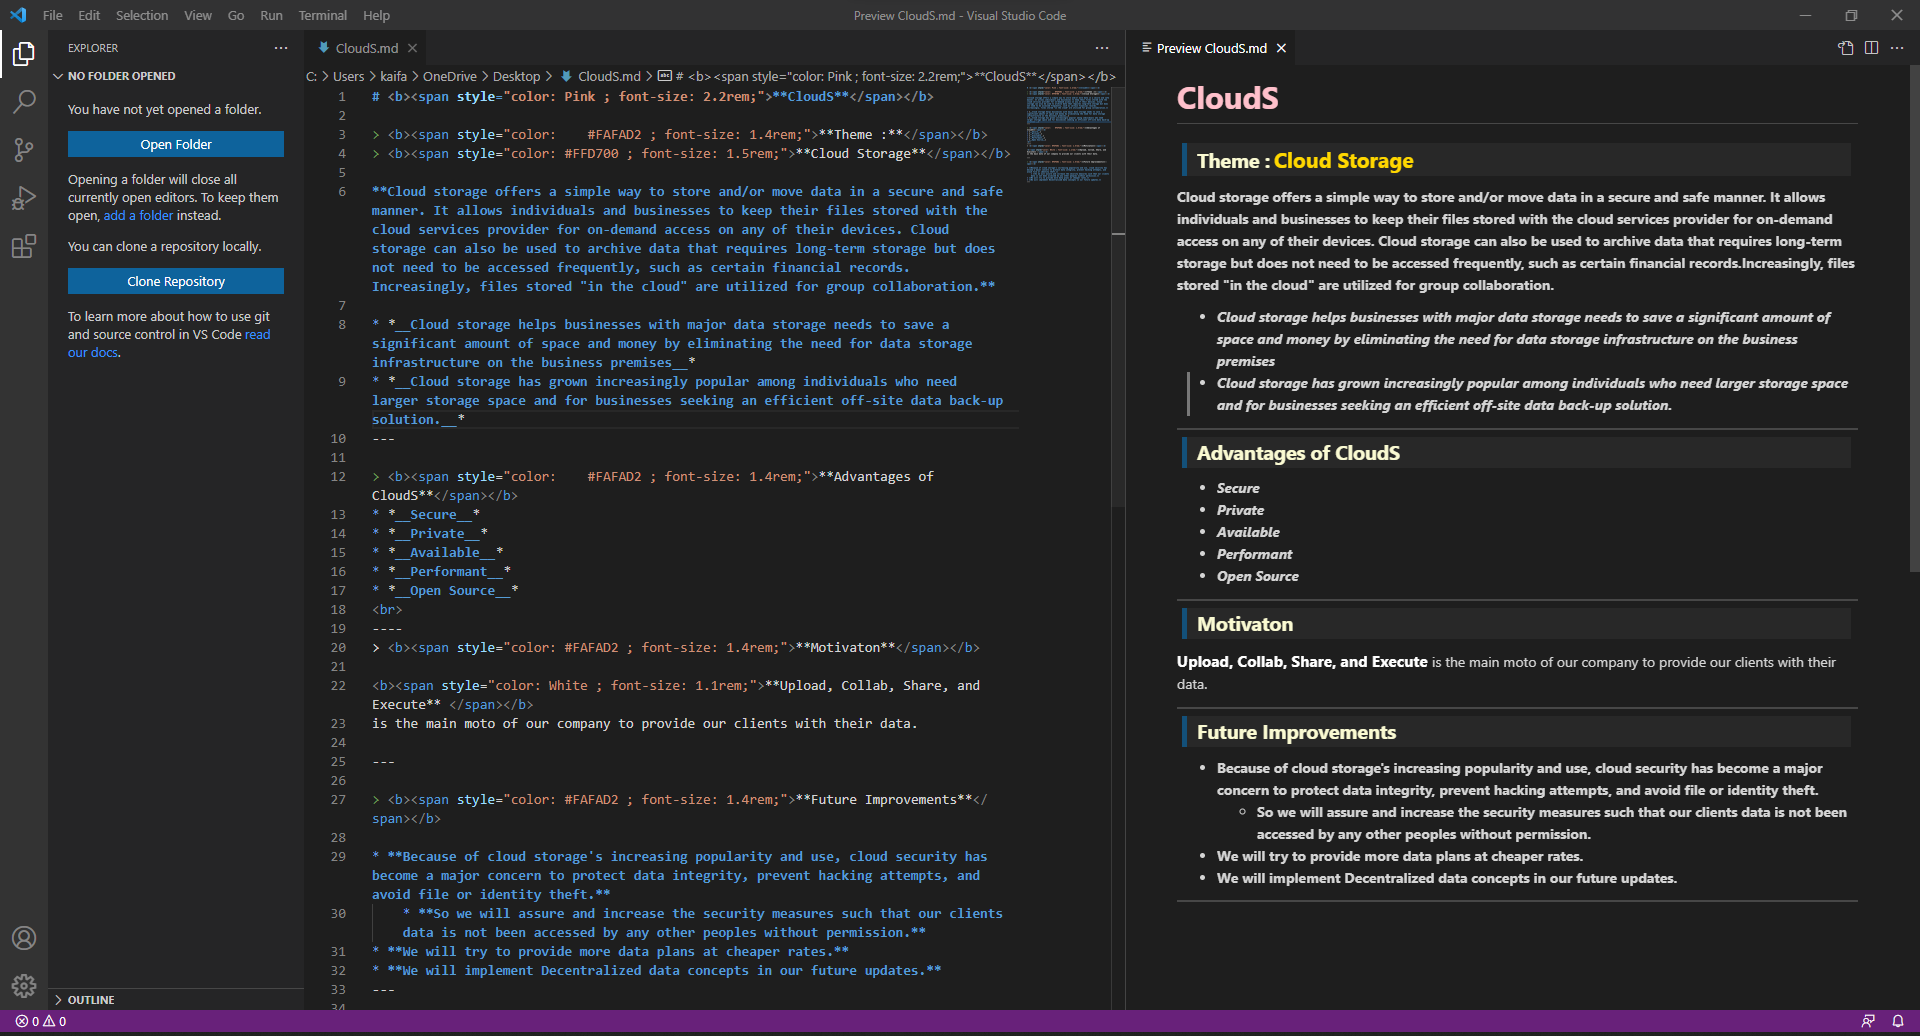
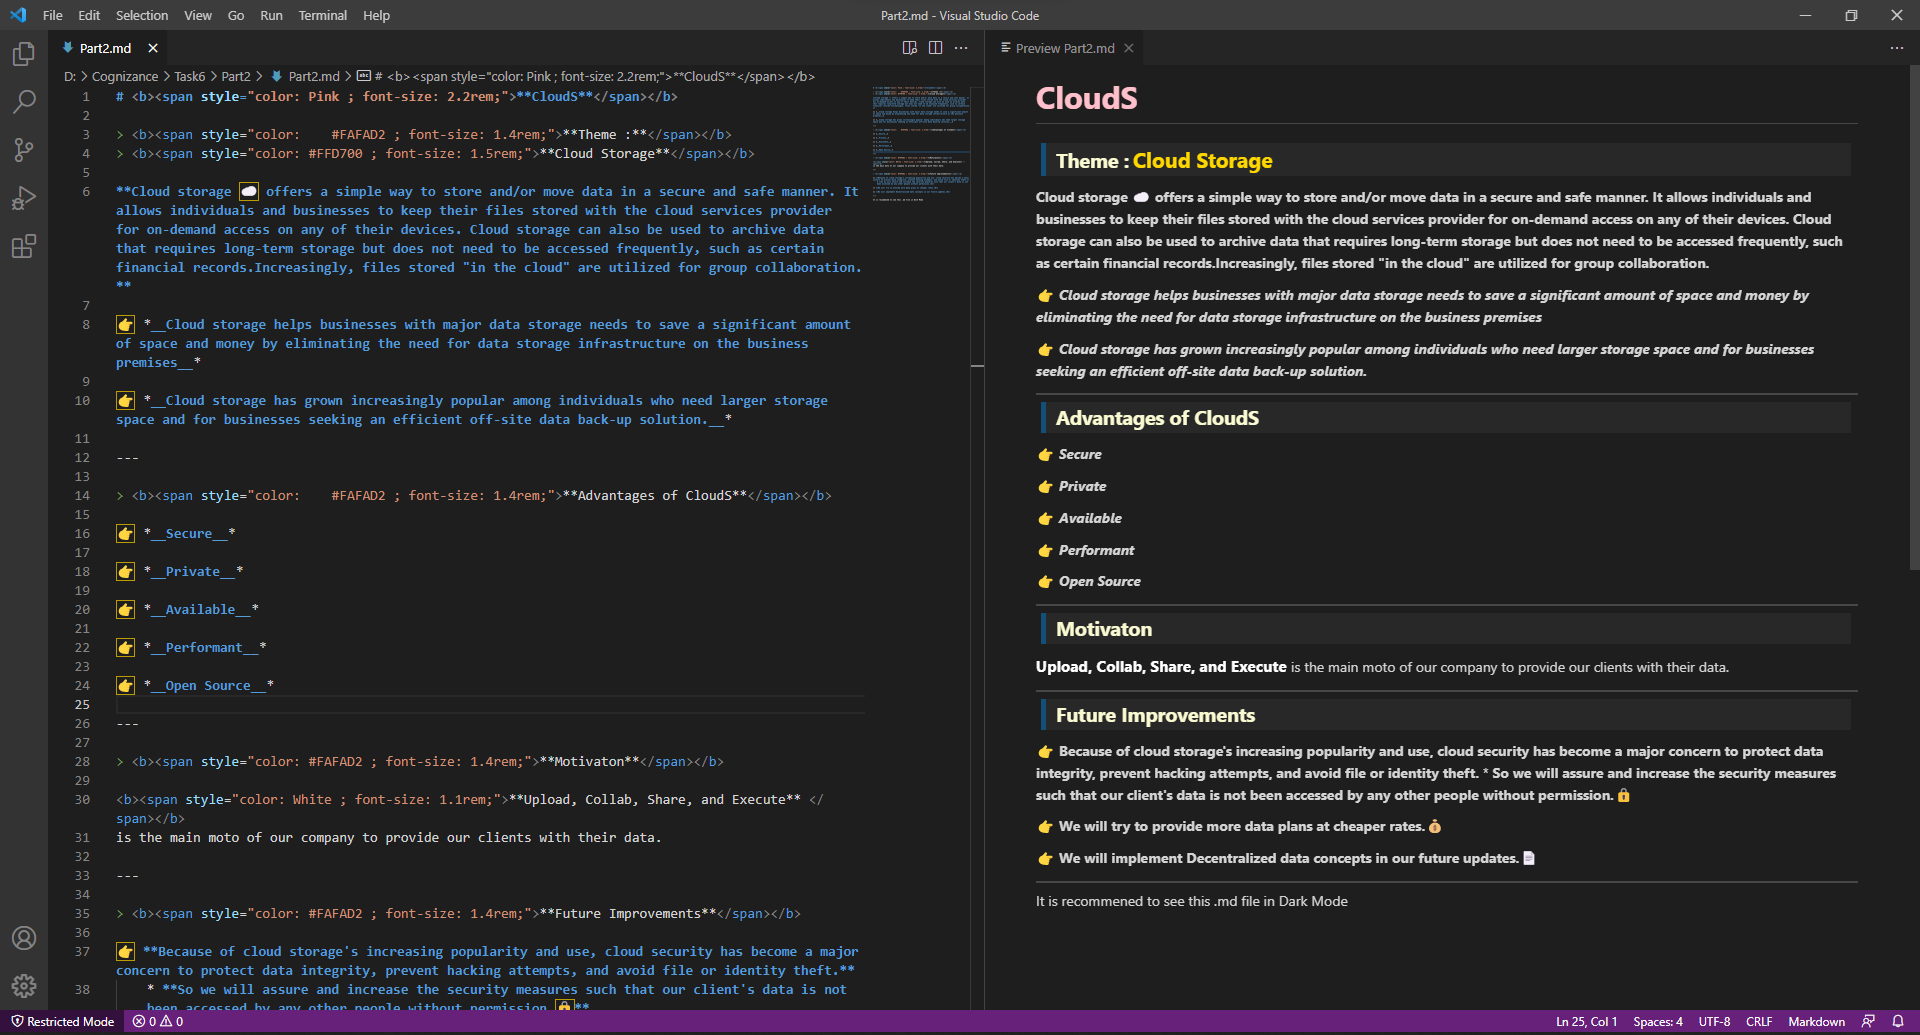
Task-6

diff --git a/Task6/Part2/Part2.md b/Task6/Part2/Part2.md
@@ -5,8 +5,10 @@
 
 **Cloud storage ☁ offers a simple way to store and/or move data in a secure and safe manner. It allows individuals and businesses to keep their files stored with the cloud services provider for on-demand access on any of their devices. Cloud storage can also be used to archive data that requires long-term storage but does not need to be accessed frequently, such as certain financial records.Increasingly, files stored "in the cloud" are utilized for group collaboration.**
 
-* *__Cloud storage helps businesses with major data storage needs to save a significant amount of space and money by eliminating the need for data storage infrastructure on the business premises__*
-* *__Cloud storage has grown increasingly popular among individuals who need larger storage space and for businesses seeking an efficient off-site data back-up solution.__*
+👉 *__Cloud storage helps businesses with major data storage needs to save a significant amount of space and money by eliminating the need for data storage infrastructure on the business premises__*
+
+👉 *__Cloud storage has grown increasingly popular among individuals who need larger storage space and for businesses seeking an efficient off-site data back-up solution.__*
+
 ---
 
 > <b><span style="color: 	#FAFAD2 ; font-size: 1.4rem;">**Advantages of CloudS**</span></b>
@@ -32,10 +34,13 @@ is the main moto of our company to provide our clients with their data.
 
 > <b><span style="color: #FAFAD2 ; font-size: 1.4rem;">**Future Improvements**</span></b>
 
-* **Because of cloud storage's increasing popularity and use, cloud security has become a major concern to protect data integrity, prevent hacking attempts, and avoid file or identity theft.** 
+👉 **Because of cloud storage's increasing popularity and use, cloud security has become a major concern to protect data integrity, prevent hacking attempts, and avoid file or identity theft.** 
     * **So we will assure and increase the security measures such that our client's data is not been accessed by any other people without permission.🔒**
-* **We will try to provide more data plans at cheaper rates.💰**
-* **We will implement Decentralized data concepts in our future updates.📄**
+
+👉 **We will try to provide more data plans at cheaper rates.💰**
+
+👉 **We will implement Decentralized data concepts in our future updates.📄**
+
 ---
 
 It is recommened to see this .md file in Dark Mode
